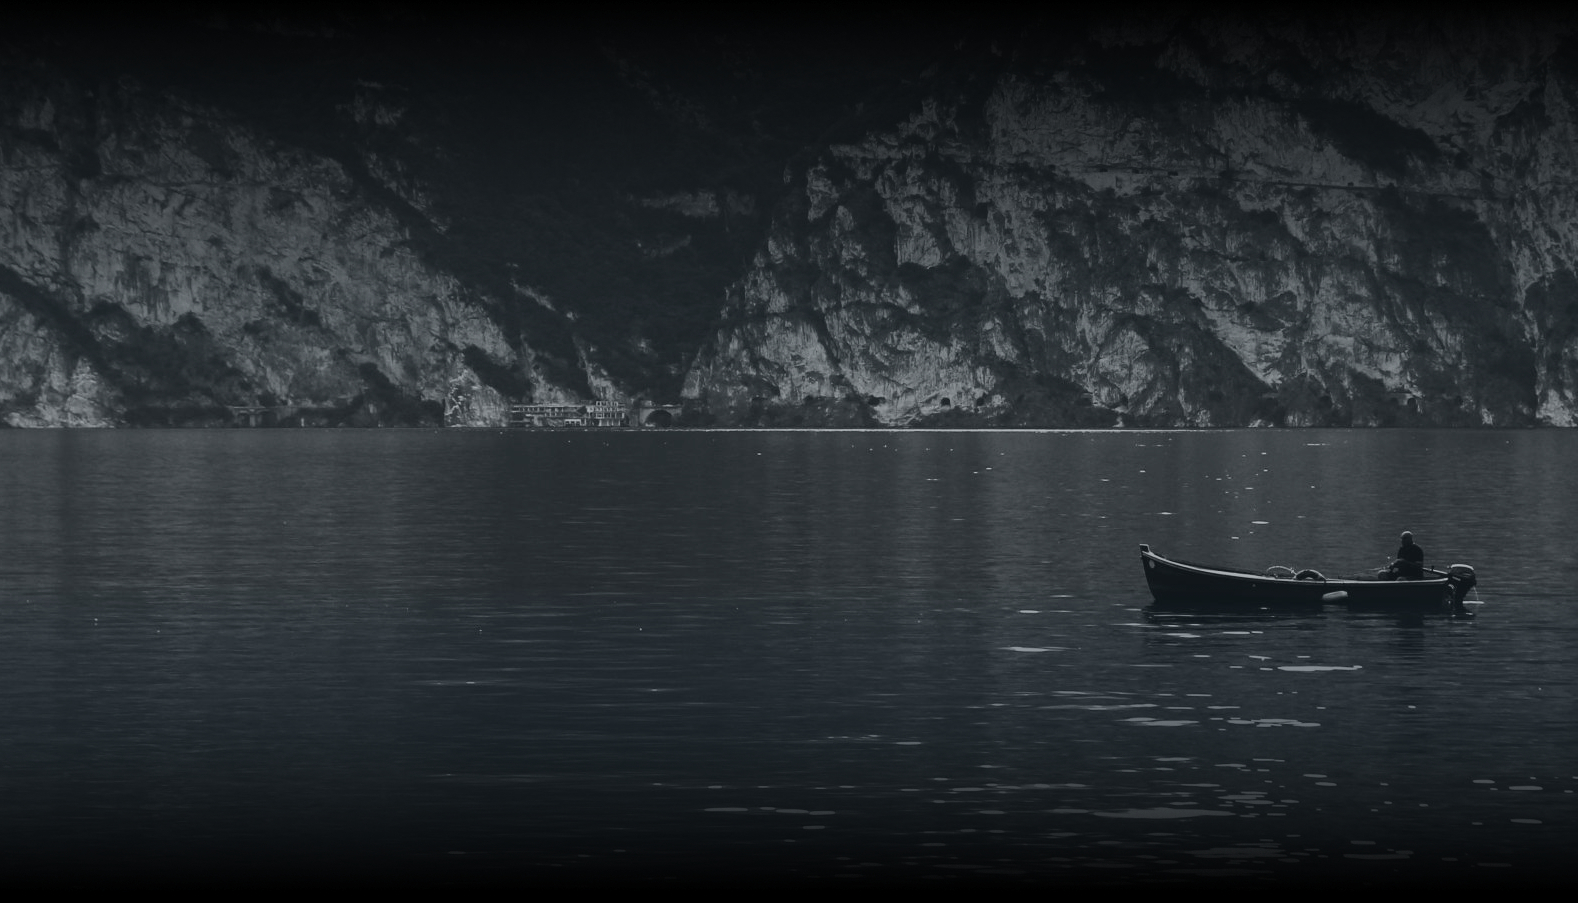
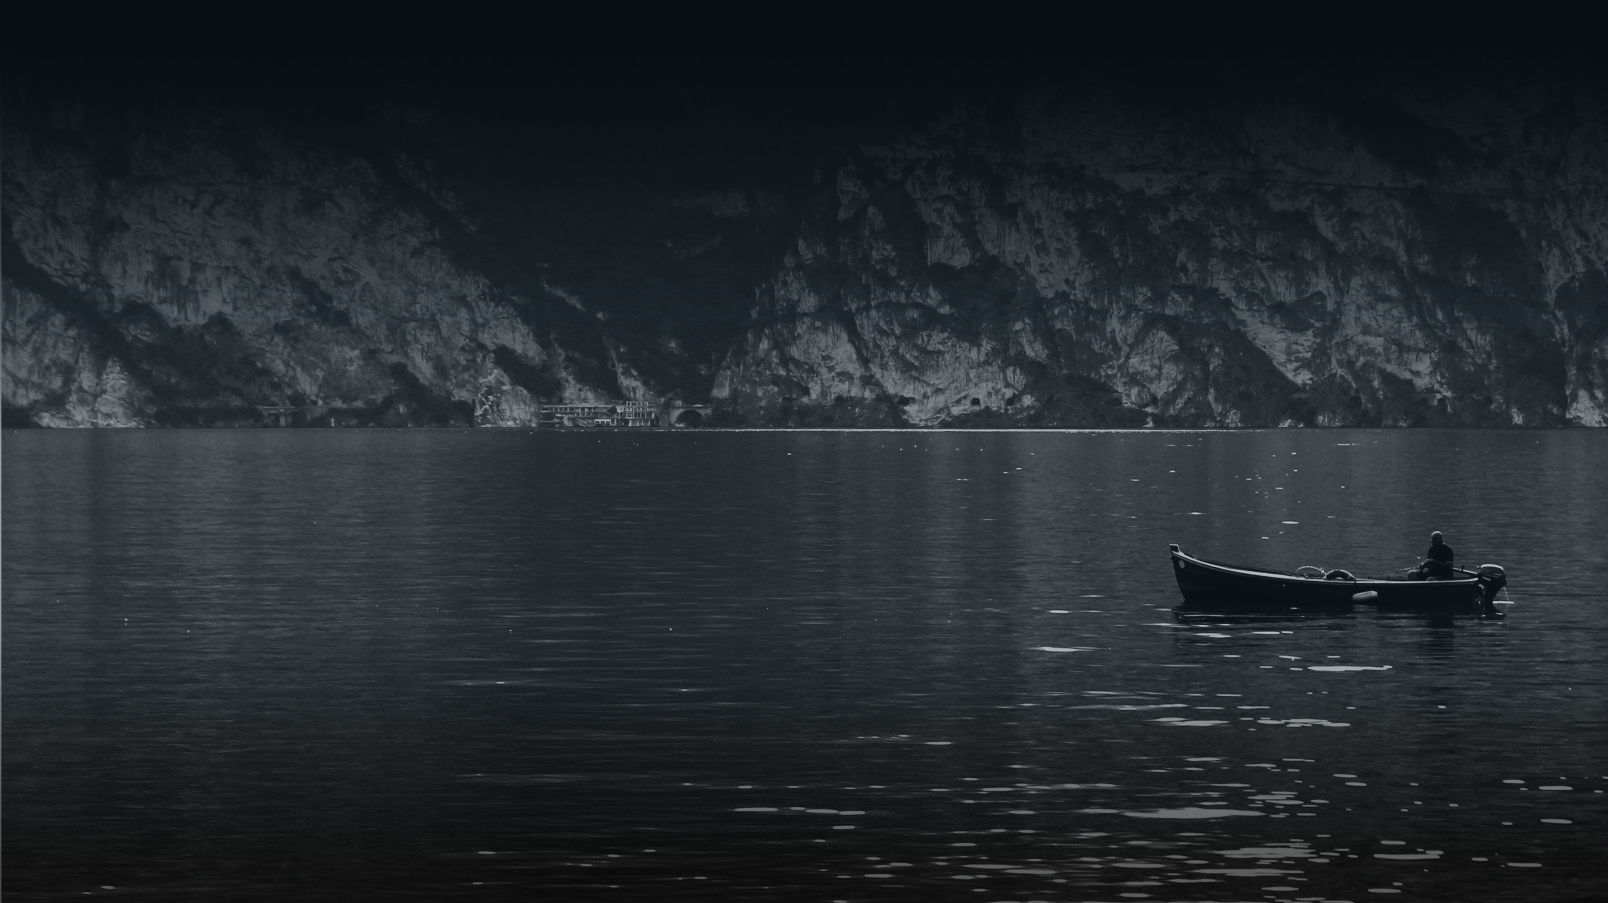
mobile done

diff --git a/src/App.scss b/src/App.scss
@@ -2,118 +2,127 @@
   padding: 0;
   margin: 0;
   box-sizing: border-box;
-  // background:rgba(36,53,64);
+  font-family: 'EB Garamond', serif;
+  color: white;
 }
 
 html {
   font-size: 62.5%;
- 
 }
 
 .app {
   min-height: 100vh;
   text-align: center;
   // background: #243540;
-
-
-  
 }
-.top {  overflow:hidden;
+.top {
+  overflow: hidden;
 
   .black {
-    // position: fixed;
-    // top: 0;
-    width: 100%;
+  
     background: black;
     padding: 30%;
   }
 
-
-
   .img {
-    // position:fixed;
-    // left:-5%;
-    // top:2%;
-    margin-top:10%;
-    transform: scale(1.4);
-    width: 100%;
   
+    width: 100%;
   }
 
- 
+  .black-invert {
+    background: linear-gradient(to bottom, black, #1d2f3c);
+    margin-top: -2%;
+    padding: 15%;
+  }
 
-  .black-invert{
-    background: linear-gradient(to bottom,black, #243540);
-    margin-top:10%;
-    // background:black;
-    // border:1px solid white;
-    padding:10%;
-    
+.menuContainer{
+
+}
+  .menu{
+    font-size:6.5rem;
+  
+  }
+  .menu1{
+    margin-left:-100%;
+  }
+
+  .menu2{
+    margin-left:60%;
   }
 }
 
 .work {
-  display:flex;
-  flex-direction:column;
+  display: flex;
+  flex-direction: column;
   align-items: center;
   min-height: 33vh;
-  background: #1D2F3C;
-  h1{
-    color:white;
-   
+  background: #1d2f3c;
+  h1 {
+    font-weight: 100;
+    font-size: 10rem;
+  }
+
+  h2 {
+    text-decoration-line: underline;
+    font-size: 3rem;
+    font-weight: 100;
     font-family: 'EB Garamond', serif;
-   font-weight: 100;
-    font-size:9rem;
- 
+    font-weight: 100;
   }
 
-h2{
-  color:white;
-  text-decoration-line: underline;
-  font-size:3rem;
-  font-weight: 100;
-   font-family: 'EB Garamond', serif;
-   font-weight: 100;
-
-}
-
-  .logo{
-    width:40%;
-    margin:20%;
+  .logo {
+    width: 40%;
+    margin: 20%;
   }
- 
 
-padding-bottom:20%;
-
-
+  padding-bottom: 20%;
 }
 
 .bottom {
-padding: 20% 5%;
-//   min-height: 33vh;
-  background: url('./assets/bottom.jpg');
-// // background-position: right;
-background-size: cover;
-color:white;
+  padding: 20% 5%;
+  //   min-height: 33vh;
+  background: url('./assets/mobile-bottom.jpg');
+  background-position: right;
+  background-size: cover;
 
-  form{
-    margin-top:5%;
-    display:flex;
+  .contact {
+    font-family: 'EB Garamond', serif;
+    font-weight: 100;
+    font-size: 12rem;
+  }
+
+  h2 {
+    font-size: 3rem;
+    margin: 1rem;
+  }
+  form {
+    margin-top: 5%;
+    display: flex;
     flex-direction: column;
     align-items: center;
-  input,textarea,button{
-    width:70%;
-    border-radius:5px;
-    margin-top:1rem;
+
+    input {
+      padding: 2rem;
+    }
+
+    input,
+    textarea,
+    button {
+      width: 70%;
+      border-radius: 15px;
+      margin-top: 1rem;
+      border: none;
+    }
+
+    textarea {
+      height: 50rem;
+    }
   }
+
+  button {
+    background: none;
+
+    font-size: 5rem;
+    font-weight: 600;
   }
-
-// .bottom-img{
-//   position: fixed;
-//   bottom:0;
-//   right:-50%;
-//   z-index:-1;
-// }
-
-
 }

diff --git a/src/Top.js b/src/Top.js
@@ -1,9 +1,16 @@
 import React from 'react';
-import top from "./assets/top.jpg"
+import top from "./assets/mobile-top.jpg"
 const Top = () => {
   return (
     <div className="top">
-      <div className="black"></div>
+      <div className="black">
+        <div className="menuContainer">
+
+        <h2 className="menu menu1">Work</h2>
+        <br/>
+        <h2 className="menu menu2">Contact</h2>
+        </div>
+      </div>
     <img className="img" src={top} alt="top"/>
      {/* <div className="img"></div> */}
 <div className="black-invert"></div>
@@ -15,46 +22,4 @@ export default Top;
 
 
 
-// {
-//   "workbench.iconTheme": "material-icon-theme",
-//   "workbench.colorTheme": "BeardedTheme Anthracite",
-//   "explorer.confirmDelete": false,
-//   "window.zoomLevel": 2,
-//   "explorer.confirmDragAndDrop": false,
-//   "[javascript]": {
-//     "editor.defaultFormatter": "esbenp.prettier-vscode"
-//   },
-//   "editor.wordWrap": "on",
-//   "editor.minimap.enabled": false,
-//   "files.autoSave": "afterDelay",
-//   "javascript.updateImportsOnFileMove.enabled": "always",
-//   "[javascriptreact]": {
-//     "editor.defaultFormatter": "esbenp.prettier-vscode"
-//   },
-//   "emmet.extensionsPath": "",
-//   "editor.snippetSuggestions": "top",
-//   "[json]": {
-//     "editor.defaultFormatter": "esbenp.prettier-vscode"
-//   },
-//   "emmet.includeLanguages": { "javascript": "javascriptreact" },
-//   "files.associations": {
-//     "javascript": "javascriptreact",
-   
-//   },
-//   "editor.formatOnSave": true,
-//   "prettier.jsxSingleQuote": true,
-//   "prettier.singleQuote": true,
-//   "[jsonc]": {
-//     "editor.defaultFormatter": "esbenp.prettier-vscode"
-//   },
-//   "[html]": {
-//     "editor.defaultFormatter": "esbenp.prettier-vscode"
-//   },
-//   "[css]": {
-//     "editor.defaultFormatter": "esbenp.prettier-vscode"
-//   },
-//   "[vue]": {
-//     "editor.defaultFormatter": "octref.vetur"
-//   },
-//   "liveServer.settings.donotShowInfoMsg": true
-// }
+

diff --git a/src/Bottom.js b/src/Bottom.js
@@ -3,13 +3,14 @@ import bottom from "./assets/bottom.jpg"
 const Bottom = () => {
   return (
     <div className="bottom">
-      <h2>Contact</h2>
+      <h2 className="contact">Contact</h2>
       {/* <img className="bottom-img" src={bottom} /> */}
      <form >
-     <h2>Name</h2>
+     <h2 >Name</h2>
        <input type="text" name="name" />
        <h2>Email</h2>
        <input type="email" name="email" />
+       <h2>Message</h2>
        <textarea name="textarea" />
        <button type="submit">Send</button>
      </form>
